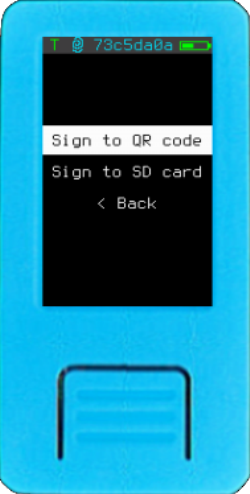
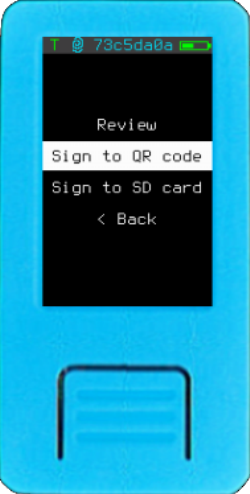
docs txt + img update

Changed region(s): [[0.168, 0.2126, 0.868, 0.4555], [0.392, 0.3947, 0.42, 0.4555]]

diff --git a/docs/getting-started/usage/navigating-the-main-menu.en.md b/docs/getting-started/usage/navigating-the-main-menu.en.md
@@ -120,7 +120,7 @@ A menu will be presented with options to display your master extended public key
 <img src="../../../img/maixpy_m5stickv/extended-public-key-wsh-xpub-text-250.png" class="m5stickv">
 <img src="../../../img/maixpy_m5stickv/extended-public-key-wsh-xpub-qr-250.png" class="m5stickv">
 
-All QR codes will contain [key origin information in key expressions](https://github.com/bitcoin/bips/blob/master/bip-0380.mediawiki#Key_Expressions). If your wallet coordinator cannot parse this information, it will not be able to import the wallet's fingerprint. As a result, Krux will not perform important verifications when signing PSBT transactions created by this wallet coordinator, unless you manually add the fingerprint in the coordinator.
+All QR codes will contain [key origin information in key expressions](https://github.com/bitcoin/bips/blob/master/bip-0380.mediawiki#Key_Expressions). If your wallet coordinator cannot parse this information, it will not be able to import the wallet's fingerprint. As a result, Krux will not perform important verifications when signing *PSBT* transactions created by this wallet coordinator, unless you manually add the fingerprint in the coordinator.
 
 Always prefer to import extended public keys directly from Krux when setting up a wallet coordinator instead of copying it (or parts of it) from other sources.
 
@@ -145,7 +145,7 @@ A Bitcoin Wallet Output Script Descriptor (aka wallet descriptors) encodes essen
 
 Output descriptors standardize wallet address generation, ensuring accurate wallet restoration from backups and compatibility across different apps.
 
-For multisig and miniscript, loading a wallet descriptor is essential to verify addresses and PSBT validations. For single-sig wallets, it remains optional and serves as a redundancy check of the coordinator's wallet attributes.
+For multisig and miniscript, loading a wallet descriptor is essential to verify addresses and *PSBT* validations. For single-sig wallets, it remains optional and serves as a redundancy check of the coordinator's wallet attributes.
 
 <img src="../../../img/maixpy_m5stickv/wallet-wsh-load-prompt-250.png" align="right" class="m5stickv">
 <img src="../../../img/maixpy_amigo/wallet-wsh-load-prompt-300.png" align="right" class="amigo">
@@ -257,7 +257,7 @@ Export your wallet *receiving or change addresses* starting from a selected *ind
 <img src="../../../img/maixpy_m5stickv/sign-options-250.png" align="right" class="m5stickv">
 <img src="../../../img/maixpy_amigo/sign-options-300.png" align="right" class="amigo">
 
-Here you can choose to sign a *PSBT* or a *Message*. You can load both PSBTs and messages by scanning QR codes or selecting a file from an SD card.
+Here you can choose to sign a *PSBT* or a *Message*. You can load both by scanning QR codes or selecting a file from an SD card.
 
 <div style="clear: both"></div>
 
@@ -267,15 +267,15 @@ Here you can choose to sign a *PSBT* or a *Message*. You can load both PSBTs and
 
 To sign a Bitcoin *PSBT*, you have the following options:
 
-- `Load from camera`: Use the camera to scan an animated QR code of a PSBT generated by your wallet coordinator software. If you have any issues, see [Troubleshooting](../../troubleshooting.md/#why-isnt-krux-scanning-the-qr-code).
-- `Load from SD Card`: Load a PSBT file from your SD card.
+- `Load from camera`: Use the camera to scan an animated QR code of a *PSBT* generated by your wallet coordinator software. If you have any issues, see [Troubleshooting](../../troubleshooting.md/#why-isnt-krux-scanning-the-qr-code).
+- `Load from SD Card`: Load a *PSBT* file from your SD card.
 
 <div style="clear: both"></div>
 
 <img src="../../../img/maixpy_m5stickv/sign-psbt-info-1-250.png" align="right" class="m5stickv">
 <img src="../../../img/maixpy_amigo/sign-psbt-info-1-300.png" align="right" class="amigo">
 
-Upon loading the unsigned PSBT, you will be presented with a preview of the transaction, showing:
+Upon loading the unsigned *PSBT*, you will be presented with a preview of the transaction, showing:
 
 - How many **Inputs** (UTXO) are involved and the amount of BTC.
 - How many **Spend** (addresses that *don't belong* to you wallet) and the amount of BTC.
@@ -289,24 +289,25 @@ Amounts are displayed according to your locale and the International Bureau of W
 <img src="../../../img/maixpy_m5stickv/sign-psbt-sign-prompt-250.png" align="right" class="m5stickv">
 <img src="../../../img/maixpy_amigo/sign-psbt-sign-prompt-300.png" align="right" class="amigo">
 
-Then you can chose between two options of signing:
+You can then choose to review the PSBT or proceed with one of two signing options:
 
-- `Sign to QR code`: The signed PSBT will be shown as an animated QR code to be scanned back into your coordinator wallet.
-- `Sign to SD card`: The signed PSBT file will be saved to your SD card to be loaded back into your coordinator wallet.
+- `Review`: Preview the *PSBT* again - including inputs, outputs (send, self-transfer, or change), and fee.
+- `Sign to QR code`: Display the signed *PSBT* as an animated QR code, ready to be scanned by your coordinator wallet.
+- `Sign to SD card`: Save the signed *PSBT* file to your SD card for later import into your coordinator wallet.
 
-**Tip**: If a thermal printer is attached to your device, you can also print the PSBT QR codes for further processing.
+**Tip**: If a thermal printer is attached to your device, you can also print the *PSBT* QR codes for further processing.
 
 <div style="clear: both"></div>
 
 #### Message
-Similar to PSBTs, Krux can load, sign, and export signatures for messages. This feature allows you to attest not only to the ownership of the messages themselves but also to the ownership of Bitcoin addresses and the authorship of documents and files.
+Similar to *PSBTs*, Krux can load, sign, and export signatures for *messages*. This feature allows you to attest not only to the ownership of the *messages* themselves but also to the ownership of Bitcoin addresses and the authorship of documents and files.
 
 - **Standard Messages and Files**
 
 <img src="../../../img/maixpy_m5stickv/sign-message-sha256-sign-prompt-250.png" align="right" class="m5stickv">
 <img src="../../../img/maixpy_amigo/sign-message-sha256-sign-prompt-300.png" align="right" class="amigo">
 
-You can scan or load a file from an SD card, the content can be plaintext or the SHA-256 hash of a message. Upon loading, you will be shown a preview of the message's SHA-256 hash for confirmation before signing.
+You can scan or load a file from an SD card, the content can be plaintext or the SHA-256 hash of a message. Upon loading, you will be shown a preview of the *message's* SHA-256 hash for confirmation before signing.
 
 If you confirm, a signature will be generated, and you will see a base64-encoded version of it. You can then choose to export it as a QR code or save it to an SD card. If a thermal printer is attached, you can also print the QR code.
 
@@ -321,6 +322,6 @@ This feature is used to sign Krux releases, airgapped, using a Krux device.
 <img src="../../../img/maixpy_m5stickv/sign-message-at-address-prompt-250.png" align="right" class="m5stickv">
 <img src="../../../img/maixpy_amigo/sign-message-at-address-prompt-300.png" align="right" class="amigo">
 
-Coordinators like Sparrow and Specter offer the possibility to sign messages at a Bitcoin receive address, allowing you to attest ownership of that address. Krux will detect if the message is of this type and present a similar workflow for signing. The main difference is that the address will be displayed along with the raw message, and since the message is signed with a derived address instead of the master public key, Krux won't offer the option to export the raw public key after the signature.
+Coordinators like Sparrow and Specter offer the possibility to sign *messages* at a Bitcoin receive address, allowing you to attest ownership of that address. Krux will detect if the *message* is of this type and present a similar workflow for signing. The main difference is that the address will be displayed along with the raw *message*, and since the *message* is signed with a derived address instead of the master public key, Krux won't offer the option to export the raw public key after the signature.
 
 <div style="clear: both"></div>
